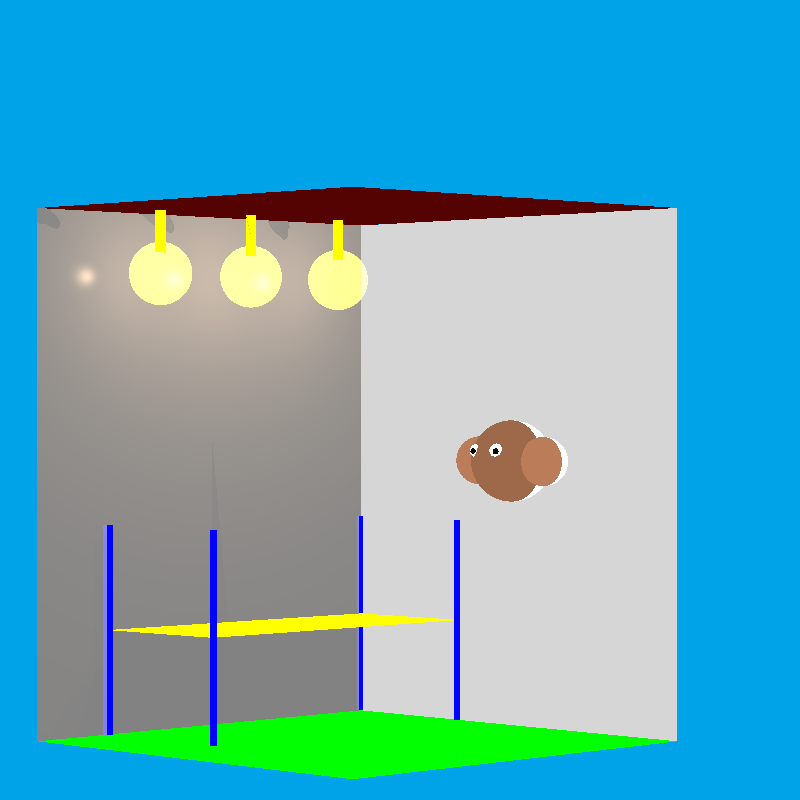
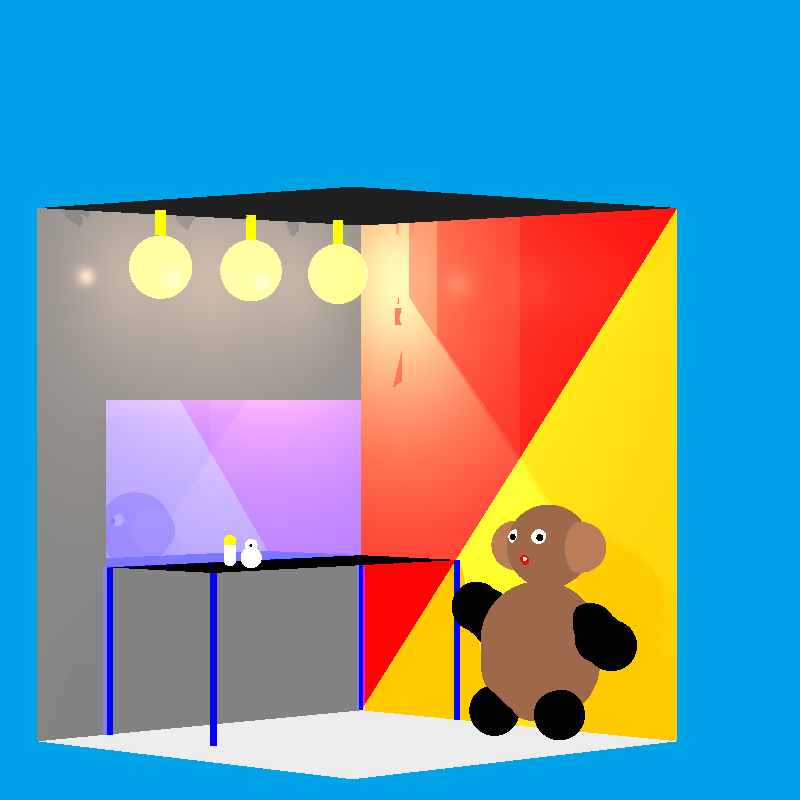
finish with the lamp

diff --git a/unitTests/renderer/ReflectionRefractionTests.java b/unitTests/renderer/ReflectionRefractionTests.java
@@ -106,6 +106,7 @@ class ReflectionRefractionTests {
 				.renderImage() ;//
 		camera.writeToImage();
 	}
+
 	@Test
 	public void test() {
 		Camera camera = new Camera(new Point(0, 0, 1000), new Vector(0, 0, -1), new Vector(0, 1, 0)) //
@@ -194,81 +195,114 @@ class ReflectionRefractionTests {
 		//				.setVPSize(2500, 2500).setVPDistance(10000);
 		// look from up to down
 		//Camera camera = new Camera(new Point(200, 20000, 9500), new Vector(0, -4200, 0), new Vector(0, 0, 1)) //
-	//			.setVPSize(2500, 2500).setVPDistance(10000);
+		//		.setVPSize(2500, 2500).setVPDistance(10000);
 		Scene scene = new Scene.SceneBuilder("Test scene").setBackground(new Color (0,162,232)).setAmbientLight(new AmbientLight(new Color(white),new Double3(0.01))).build();
 		scene.getGeometries().add(
 
 				//right
-				new Triangle(new Point(0,-1500,8500), new Point(1500,1000,10000), new Point(0,1000,8500)).setEmission(new Color(212,212,212)).setMaterial(new Material().setkT(1).setnShininess(50)),
-				new Triangle(new Point(0,-1500,8500), new Point(1500,1000,10000), new Point(1500,-1500,10000)).setEmission(new Color(212,212,212)).setMaterial(new Material().setkT(1).setnShininess(50)),
+				new Triangle(new Point(0,-1500,8500), new Point(1500,1000,10000), new Point(0,1000,8500)).setEmission(new Color(red)).setMaterial(new Material().setkT(1).setkD(0.8).setkS(0.6).setnShininess(150)),
+				new Triangle(new Point(0,-1500,8500), new Point(1500,1000,10000), new Point(1500,-1500,10000)).setEmission(new Color(orange)).setMaterial(new Material().setkT(1).setkD(0.8).setkS(0.6).setnShininess(150)),
 
 				//left
 				new Triangle(new Point(0,-1500,8500), new Point(-1500,1000,10000), new Point(0,1000,8500)).setEmission(new Color(gray)).setMaterial(new Material().setkS(0.4).setkT(0.4).setkD(0.2).setnShininess(150)),
 				new Triangle(new Point(0,-1500,8500), new Point(-1500,1000,10000), new Point(-1500,-1500,10000)).setEmission(new Color(gray)).setMaterial(new Material().setkS(0.4).setkT(0.4).setkD(0.2).setnShininess(150)),
 
+				//meror
+				new Triangle(new Point(0,100,8500), new Point(-1200,-700,9750), new Point(0,-700,8500)).setEmission(new Color(blue)).setMaterial(new Material().setkR(0.2).setkD(0.3).setkS(0.4).setkT(0.8).setnShininess(150)),
+				new Triangle(new Point(0,100,8500), new Point(-1200,-700,9750), new Point(-1200,100,9750)).setEmission(new Color(blue)).setMaterial(new Material().setkR(0.2).setkD(0.3).setkS(0.4).setkT(0.8).setnShininess(150)),
+
+				//perfume - busam
+				new Sphere(new Point(-500,-642,9950),50).setEmission(new Color(white)),
+				new Sphere(new Point(-500,-582,9950),30).setEmission(new Color(white)),
+				new Sphere(new Point(-500,-582,9980),7).setEmission(new Color(black)),
+
+				new Sphere(new Point(-600,-652,9950),30).setEmission(new Color(white)),
+				new Sphere(new Point(-600,-625,9950),30).setEmission(new Color(white)),
+				new Sphere(new Point(-600,-595,9950),30).setEmission(new Color(white)),
+				new Sphere(new Point(-600,-565,9950),30).setEmission(new Color(yellow)),
 				//bad - up
-				new Triangle(new Point(0,-1000,8500), new Point(-1200,-1000,9700), new Point(500,-1000,9000)).setEmission(new Color(yellow)),
-				new Triangle(new Point(-667,-1000,10200), new Point(-1200,-1000,9700), new Point(500,-1000,9000)).setEmission(new Color(yellow)),
+				new Triangle(new Point(0,-700,8500), new Point(-1200,-700,9700), new Point(500,-700,9000)).setEmission(new Color(black)),
+				new Triangle(new Point(-667,-700,10200), new Point(-1200,-700,9700), new Point(500,-700,9000)).setEmission(new Color(black)),
 
 				//bad - leg
-				new Triangle(new Point(-647,-1500,10200), new Point(-677,-1500,10200), new Point(-677,-500,10200)).setEmission(new Color(blue)),
-				new Triangle(new Point(-647,-1500,10200), new Point(-647,-500,10200), new Point(-677,-500,10200)).setEmission(new Color(blue)),
+				new Triangle(new Point(-647,-1500,10200), new Point(-677,-1500,10200), new Point(-677,-700,10200)).setEmission(new Color(blue)),
+				new Triangle(new Point(-647,-1500,10200), new Point(-647,-700,10200), new Point(-677,-700,10200)).setEmission(new Color(blue)),
 
 				//bad - leg
-				new Triangle(new Point(-1220,-1500,9700), new Point(-1220,-500,9700), new Point(-1170,-500,9700)).setEmission(new Color(blue)),
-				new Triangle(new Point(-1220,-1500,9700), new Point(-1170,-1500,9700), new Point(-1170,-500,9700)).setEmission(new Color(blue)),
+				new Triangle(new Point(-1220,-1500,9700), new Point(-1220,-700,9700), new Point(-1170,-700,9700)).setEmission(new Color(blue)),
+				new Triangle(new Point(-1220,-1500,9700), new Point(-1170,-1500,9700), new Point(-1170,-700,9700)).setEmission(new Color(blue)),
 
 				//bad - leg
-				new Triangle(new Point(20,-1500,8510), new Point(20,-500,8510), new Point(-20,-500,8510)).setEmission(new Color(blue)),
-				new Triangle(new Point(20,-1500,8510), new Point(-20,-1500,8510), new Point(-20,-500,8510)).setEmission(new Color(blue)),
+				new Triangle(new Point(20,-1500,8510), new Point(20,-700,8510), new Point(-20,-700,8510)).setEmission(new Color(blue)),
+				new Triangle(new Point(20,-1500,8510), new Point(-20,-1500,8510), new Point(-20,-700,8510)).setEmission(new Color(blue)),
 
 				//bad - leg
-				new Triangle(new Point(500,-1500,9000), new Point(500,-500,9000), new Point(470,-500,9000)).setEmission(new Color(blue)),
-				new Triangle(new Point(470,-1500,9000), new Point(500,-1500,9000), new Point(470,-500,9000)).setEmission(new Color(blue)),
+				new Triangle(new Point(500,-1500,9000), new Point(500,-700,9000), new Point(470,-700,9000)).setEmission(new Color(blue)),
+				new Triangle(new Point(470,-1500,9000), new Point(500,-1500,9000), new Point(470,-700,9000)).setEmission(new Color(blue)),
 
 				//up
-				new Triangle(new Point(0,1000,8500), new Point(-1500,1000,10000), new Point(0,1000,11500)).setEmission(new Color(82,0,0)).setMaterial(new Material().setkT(1).setnShininess(50)),
-				new Triangle(new Point(0,1000,8500), new Point(1500,1000,10000), new Point(0,1000,11500)).setEmission(new Color(82,0,0)).setMaterial(new Material().setkT(1).setnShininess(50)),
+				new Triangle(new Point(0,1000,8500), new Point(-1500,1000,10000), new Point(0,1000,11500)).setEmission(new Color(30,30,30)).setMaterial(new Material().setkT(1).setnShininess(50)),
+				new Triangle(new Point(0,1000,8500), new Point(1500,1000,10000), new Point(0,1000,11500)).setEmission(new Color(30,30,30)).setMaterial(new Material().setkT(1).setnShininess(50)),
 
 				//down
-				new Triangle(new Point(0,-1500,8500), new Point(-1500,-1500,10000), new Point(0,-1500,11500)).setEmission(new Color(green)).setMaterial(new Material().setkT(1).setnShininess(50)),
-				new Triangle(new Point(0,-1500,8500), new Point(1500,-1500,10000), new Point(0,-1500,11500)).setEmission(new Color(green)).setMaterial(new Material().setkT(1).setnShininess(50)),
+				new Triangle(new Point(0,-1500,8500), new Point(-1500,-1500,10000), new Point(0,-1500,11500)).setEmission(new Color(235,235,235)).setMaterial(new Material().setkT(1).setnShininess(50)),
+				new Triangle(new Point(0,-1500,8500), new Point(1500,-1500,10000), new Point(0,-1500,11500)).setEmission(new Color(235,235,235)).setMaterial(new Material().setkT(1).setnShininess(50)),
 
 				//lamp middle
-				new Triangle(new Point(-500,1000,9450), new Point(-550,1000,9400), new Point(-500,800,9450)).setEmission(new Color(yellow)),
-				new Triangle(new Point(-550,1000,9450), new Point(-550,800,9400), new Point(-500,800,9450)).setEmission(new Color(yellow)),
+				new Triangle(new Point(-500,1000,9450), new Point(-550,1000,9400), new Point(-500,880,9450)).setEmission(new Color(yellow)),
+				new Triangle(new Point(-550,1000,9450), new Point(-550,880,9400), new Point(-500,880,9450)).setEmission(new Color(yellow)),
 
-				new Sphere(new Point(-525,700,9425),150).setEmission(new Color(yellow)).setMaterial(new Material().setkT(1).setnShininess(50)),
+				new Sphere(new Point(-525,730,9425),150).setEmission(new Color(yellow)).setMaterial(new Material().setkT(1).setnShininess(50)),
 
 				//lamp first
-				new Triangle(new Point(-910,800,9800), new Point(-960,800,9850), new Point(-960,1000,9850)).setEmission(new Color(yellow)),
-				new Triangle(new Point(-910,800,9800), new Point(-910,1000,9850), new Point(-960,1000,9850)).setEmission(new Color(yellow)),
+				new Triangle(new Point(-910,880,9800), new Point(-960,880,9850), new Point(-960,1000,9850)).setEmission(new Color(yellow)),
+				new Triangle(new Point(-910,880,9800), new Point(-910,1000,9850), new Point(-960,1000,9850)).setEmission(new Color(yellow)),
 
-				new Sphere(new Point(-935,700,9825),150).setEmission(new Color(yellow)).setMaterial(new Material().setkT(1).setnShininess(50)),
+				new Sphere(new Point(-935,730,9825),150).setEmission(new Color(yellow)).setMaterial(new Material().setkT(1).setnShininess(50)),
 
 				//lamp last
-				new Triangle(new Point(-85,800,8975), new Point(-135,1000,9025), new Point(-85,1000,8975)).setEmission(new Color(yellow)),
-				new Triangle(new Point(-85,800,8975), new Point(-135,1000,9025), new Point(-135,800,9000)).setEmission(new Color(yellow)),
+				new Triangle(new Point(-85,880,8975), new Point(-135,1000,9025), new Point(-85,1000,8975)).setEmission(new Color(yellow)),
+				new Triangle(new Point(-85,880,8975), new Point(-135,1000,9025), new Point(-135,880,9000)).setEmission(new Color(yellow)),
 
-				new Sphere(new Point(-110,700,9000),150).setEmission(new Color(yellow)).setMaterial(new Material().setkT(1).setnShininess(50)),
+				new Sphere(new Point(-110,730,9000),150).setEmission(new Color(yellow)).setMaterial(new Material().setkT(1).setnShininess(50)),
 				//monkey
-				new Sphere(new Point(750,-200,9250),200).setEmission(new Color(156,103,73)),
-				new Sphere(new Point(900,-200,9400),120).setEmission(new Color(185,122,87)),
-				new Sphere(new Point(600,-200,9100),120).setEmission(new Color(185,122,87)),
+				new Sphere(new Point(910,-600,9700),200).setEmission(new Color(156,103,73)),
+				new Sphere(new Point(1060,-600,9800),120).setEmission(new Color(185,122,87)),
+				new Sphere(new Point(760,-600,9600),120).setEmission(new Color(185,122,87)),
+
+				new Sphere(new Point(870,-1050,9720),285).setEmission(new Color(156,103,73)),
+				new Sphere(new Point(870,-1150,9720),285).setEmission(new Color(156,103,73)),
+				new Sphere(new Point(650,-1380,9750),120).setEmission(new Color(black)),
+				new Sphere(new Point(950,-1380,9950),120).setEmission(new Color(black)),
+				//right
+				new Sphere(new Point(670,-980,9550),120).setEmission(new Color(black)),
+				new Sphere(new Point(620,-930,9530),120).setEmission(new Color(black)),
+				new Sphere(new Point(570,-900,9510),120).setEmission(new Color(black)),
+				//left
+				new Sphere(new Point(1100,-980,9870),120).setEmission(new Color(black)),
+				new Sphere(new Point(1140,-1020,9950),120).setEmission(new Color(black)),
+				new Sphere(new Point(1190,-1050,10010),120).setEmission(new Color(black)),
 
 				//monkey eyes
-				new Sphere(new Point(675,-150,9400),40).setEmission(new Color(white)),
-				new Sphere(new Point(578,-150,9300),35).setEmission(new Color(white)),
+				new Sphere(new Point(860,-550,9865),40).setEmission(new Color(white)),
+				new Sphere(new Point(750,-550,9780),35).setEmission(new Color(white)),
 
-				new Sphere(new Point(665,-150,9435),15).setEmission(new Color(black)),
-				new Sphere(new Point(558,-150,9330),13).setEmission(new Color(black))
+				new Sphere(new Point(860,-550,9900),17).setEmission(new Color(black)),
+				new Sphere(new Point(735,-550,9810),15).setEmission(new Color(black)),
 
+				new Sphere(new Point(805,-650,9830),35).setEmission(new Color(red)),
+				new Sphere(new Point(795,-652,9850),15).setEmission(new Color(white))
+
+
+		//new Sphere(new Point(0,-225,115000),3500).setEmission(new Color(BLUE)).setEmission(new Color(BLUE)).setMaterial(new Material().setkD(0.5).setkS(0.5).setnShininess(30))
 
 
 		);
-
+		//(new Point(870,-1050,9720),
+		//scene.getLights().add(
+		//		new SpotLight(new Color(400, 240, 0), new Point(-870,600,13280),new Vector(1740,-1650,-3560)).setkL(1E-5).setkQ(1.5E-7) );
 		scene.getLights().add(
-				new PointLight(new Color(255,197,143),new Point(-525,700,9425)).setkL(0.0004).setkQ(0.0000006));
+						new PointLight(new Color(255,197,143),new Point(-525,700,9425)).setkL(0.0004).setkQ(0.0000006));
 		scene.getLights().add(
 				new PointLight(new Color(255,197,143),new Point(-935,700,9825)).setkL(0.0004).setkQ(0.0000006));
 		scene.getLights().add(
